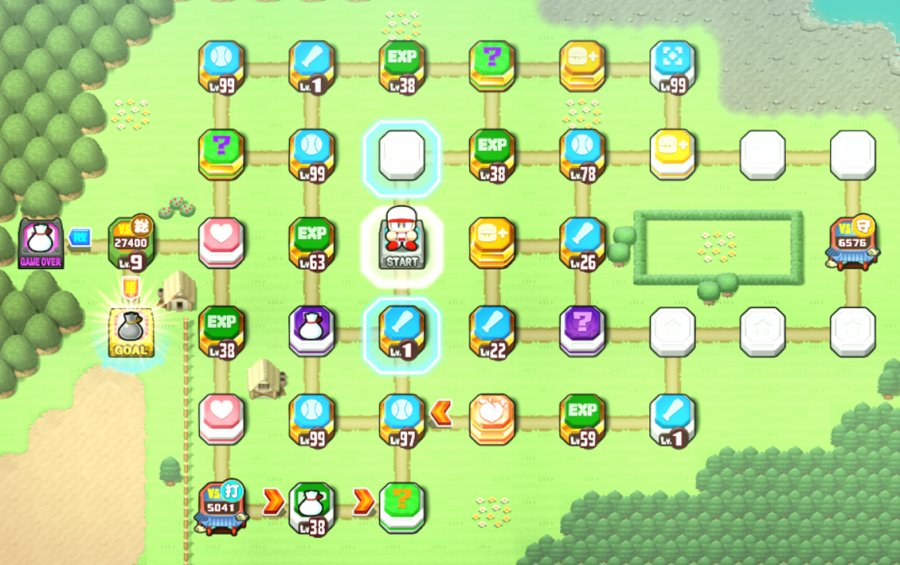
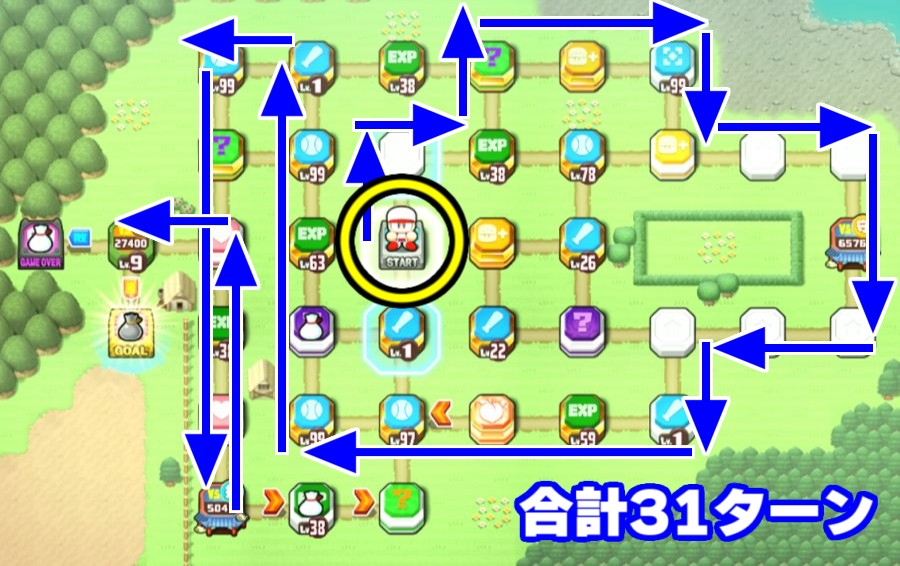
むずクエ攻略：エリア2の画像を管理人のルート入り画像に差し替え
Claude-Session: https://claude.ai/code/session_019YJeSxSnhDz2qD8AHUxLum

diff --git a/src/pages/pawaque-saikyuki-muzu.html b/src/pages/pawaque-saikyuki-muzu.html
@@ -32,7 +32,7 @@ pq_order: 8
   <p>桃マスでは、次のエリアに向けて<span class="em-blue cp-nw">回復の術 金</span>を<span class="cp-nw">発動しましょう。</span><br><span class="tx-r">発動には金ノ書が<span class="cp-nw">必要になります。</span></span></p>
 
   <h2 id="area2">エリア2</h2>
-  <img class="pq-img" src="{{root}}img/pawaque/saikyuki_muzu_area2.jpg" alt="むずクエ エリア2のマップ全体" width="900" height="565" loading="lazy">
+  <img class="pq-img" src="{{root}}img/pawaque/saikyuki_muzu_area2.jpg" alt="むずクエ エリア2のマップ全体とおすすめルート" width="900" height="566" loading="lazy">
   <p>画面中央スタート<span class="cp-nw">です。</span></p>
   <p><span class="em-blue">最初に錬金の術を<span class="cp-nw">発動しましょう。</span></span>エリア1で使った回復の術と合わせて、ターンを回復しながら進めるように<span class="cp-nw">なります。</span></p>
   <p>右ルートを時計回りに回ったあと、左上→左下と移動する事で神前試合マスと桃マスの両方を<span class="cp-nw">回収可能です。</span></p>

diff --git a/docs/pawaque/saikyuki/muzu/index.html b/docs/pawaque/saikyuki/muzu/index.html
@@ -81,7 +81,7 @@
   <p>桃マスでは、次のエリアに向けて<span class="em-blue cp-nw">回復の術 金</span>を<span class="cp-nw">発動しましょう。</span><br><span class="tx-r">発動には金ノ書が<span class="cp-nw">必要になります。</span></span></p>
 
   <h2 id="area2">エリア2</h2>
-  <img class="pq-img" src="../../../img/pawaque/saikyuki_muzu_area2.jpg" alt="むずクエ エリア2のマップ全体" width="900" height="565" loading="lazy">
+  <img class="pq-img" src="../../../img/pawaque/saikyuki_muzu_area2.jpg" alt="むずクエ エリア2のマップ全体とおすすめルート" width="900" height="566" loading="lazy">
   <p>画面中央スタート<span class="cp-nw">です。</span></p>
   <p><span class="em-blue">最初に錬金の術を<span class="cp-nw">発動しましょう。</span></span>エリア1で使った回復の術と合わせて、ターンを回復しながら進めるように<span class="cp-nw">なります。</span></p>
   <p>右ルートを時計回りに回ったあと、左上→左下と移動する事で神前試合マスと桃マスの両方を<span class="cp-nw">回収可能です。</span></p>
